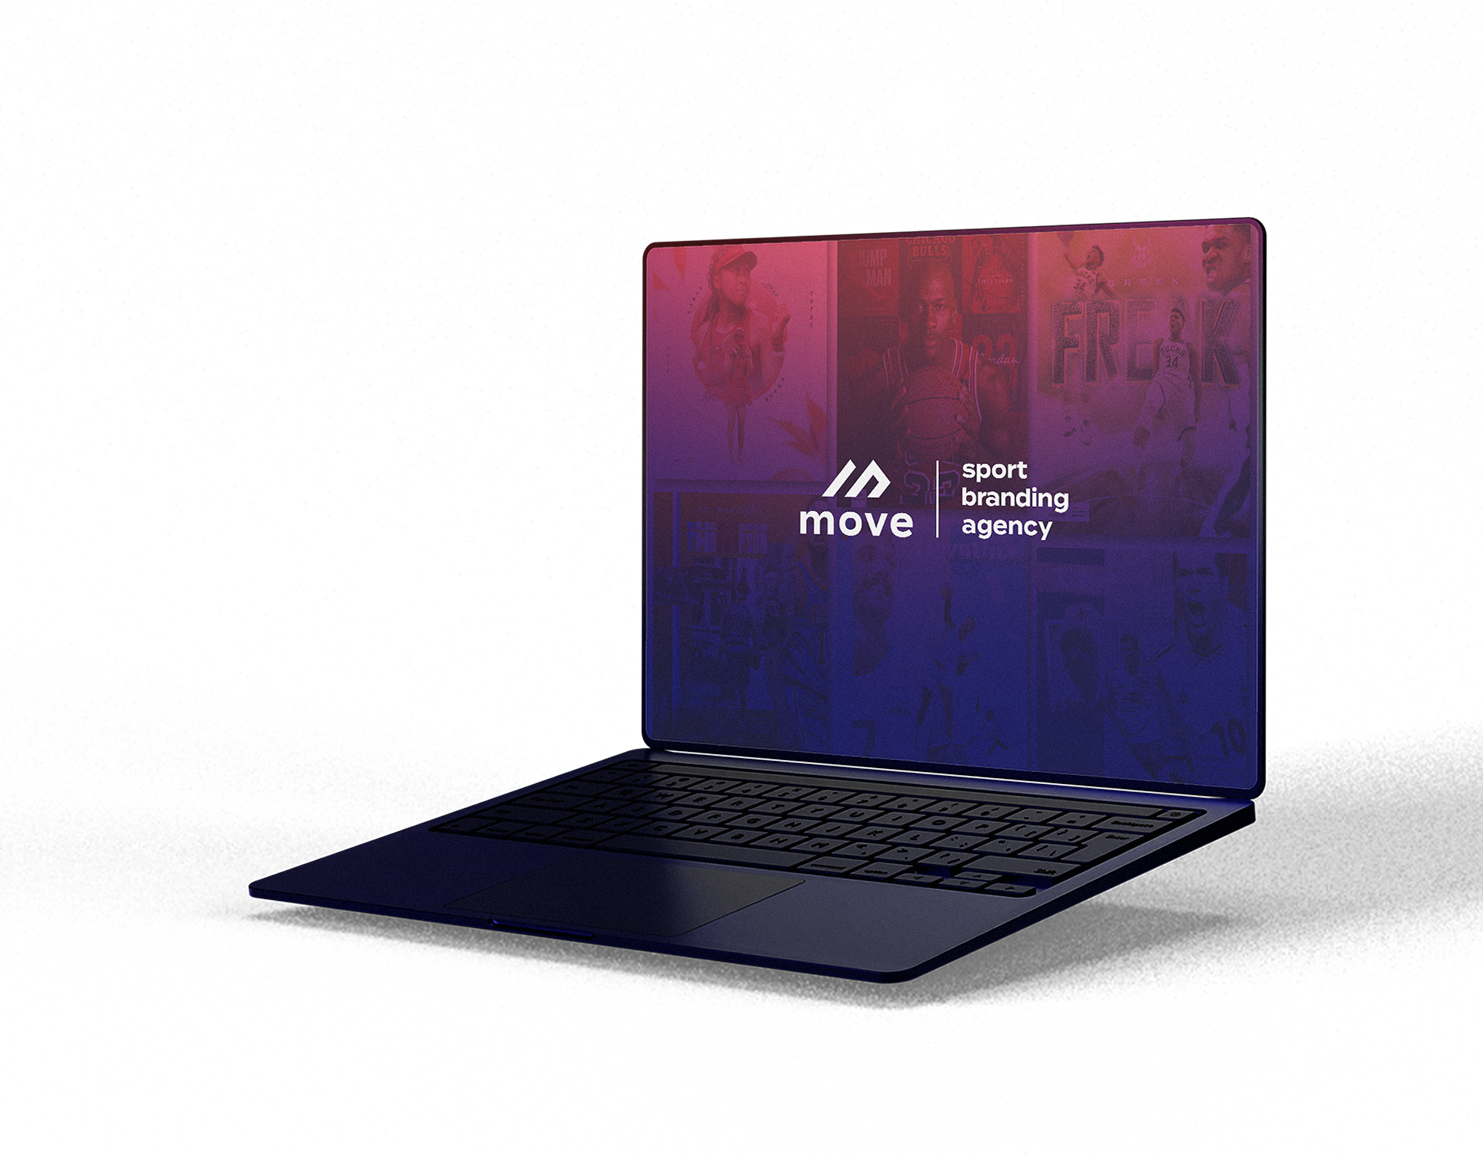
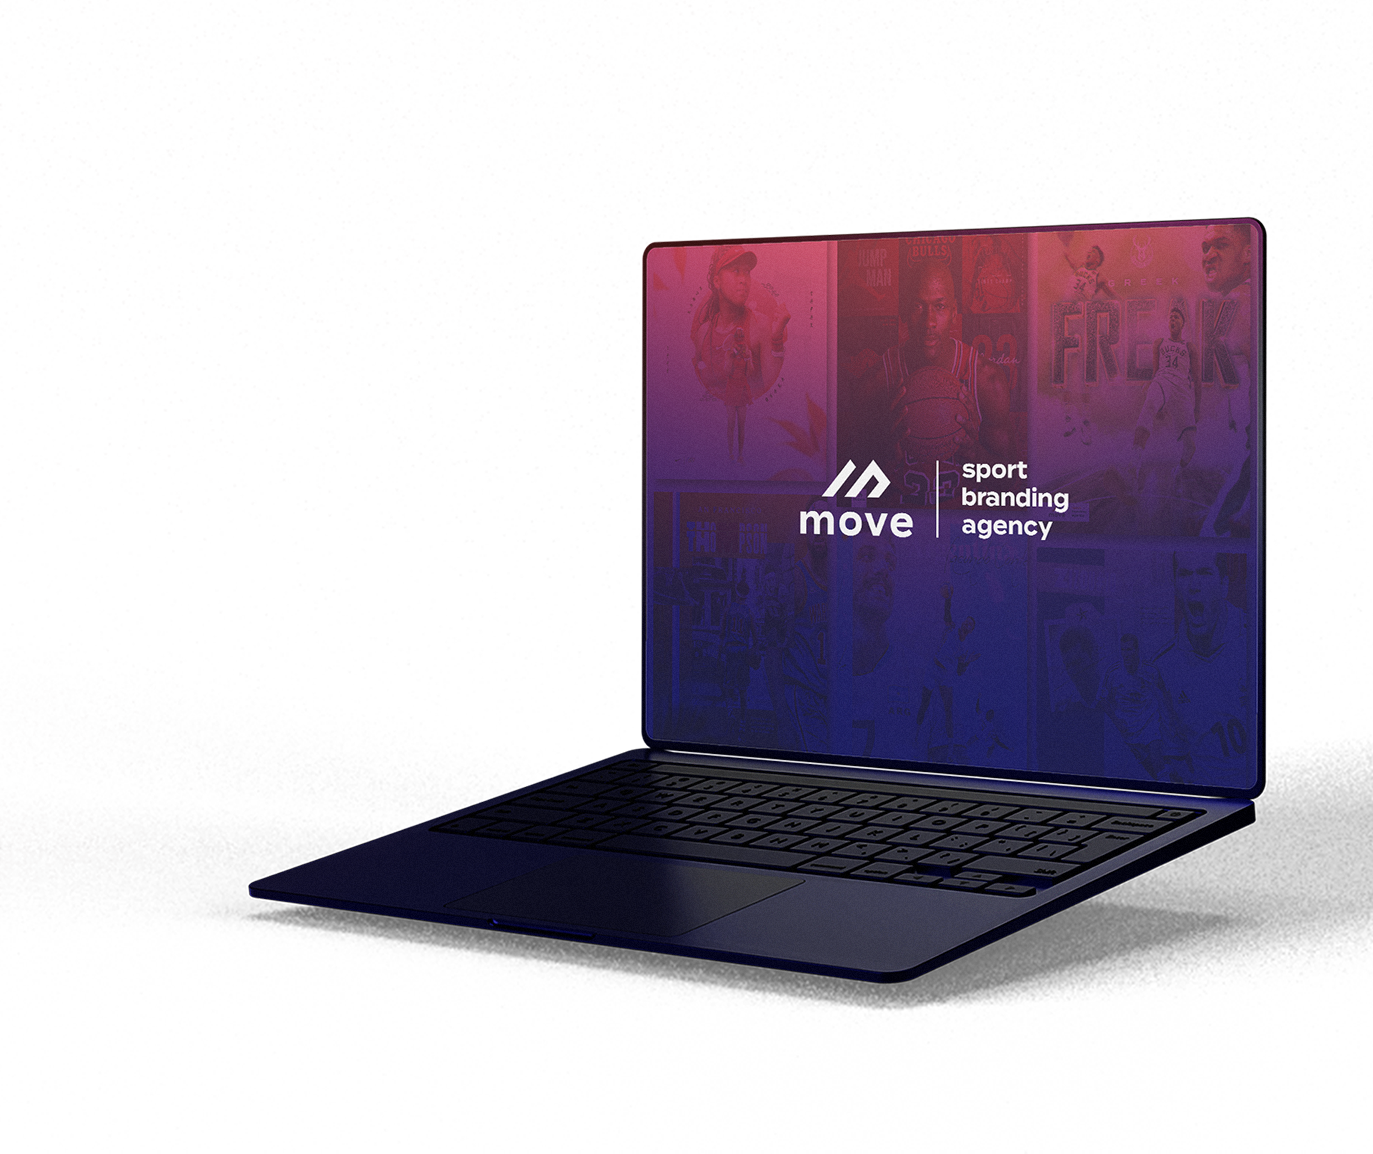
feat: test grain, p tag font weight,

Changed region(s): [[0.1529, 0.1872, 1.0, 0.8735]]

diff --git a/index.html b/index.html
@@ -106,7 +106,8 @@
     </div>
   </nav>
 
-  <section class="w-100 flex bg-main-blue min-h-screen">
+  <section class="w-100 flex bg-main-blue min-h-screen relative">
+    <div class="absolute left-0 top-0 bg-[url('/utils/grain.svg')] w-full h-full opacity-30"></div>
     <div class="bg-gradient-to-b from-main-red to-transparent h-3/5 flex w-full absolute -top-20">
     </div>
 
@@ -126,20 +127,22 @@
       </div>
 
 
-      <div class="absolute right-0 z-[3]">
+      <div class="absolute right-0 bottom-12 md:bottom-1/2 md:translate-y-1/2 z-[3]">
         <img src="./images/hero-image.png" />
       </div>
     </div>
+
   </section>
 
   <section class="w-100 bg-white text-center my-32 px-8">
+
     <div class="container mx-auto">
       <h2
         class="xl:text-5xl lg:text-4xl md:text-3xl text-2xl font-bold xl:mb-16 lg:mb-8 mb-4 text-main-blue before:block before:w-4 before:h-20 before:rotate-45 before:bg-main-red before:absolute before:-left-12 before:bottom-2 relative inline-block">
         KIM JESTEŚMY?
       </h2>
 
-      <p class="xl:text-3xl lg:text-2xl md:text-xl text-mdfont-medium mb-16">
+      <p class="xl:text-3xl lg:text-2xl md:text-xl text-md font-medium mb-16">
         Move to sportowa agencja brandingowa, która specjalizuje się
         w budowie wizualnego wizerunku klubów sportowych oraz sportowców.
         Tworzymy markę klubu, który jest z łatwością rozpoznawalny w sieci i stanowi
@@ -158,6 +161,7 @@
   <section class="w-100 bg-main-blue text-center relative">
     <div class="bg-gradient-to-b from-main-red to-transparent h-96 flex w-full absolute top-0">
     </div>
+    <div class="absolute left-0 top-0 bg-[url('/utils/grain.svg')] w-full h-full opacity-30"></div>
     <div class="container mx-auto text-white relative px-8">
       <h2
         class="xl:text-5xl lg:text-4xl md:text-3xl text-2xl font-bold xl:mb-16 lg:mb-8 mb-4 text-white before:block before:w-4 before:h-20 before:rotate-45 before:bg-main-red before:absolute before:-left-12 before:bottom-2 relative inline-block mt-24">
@@ -168,7 +172,7 @@
         Plakaty sportowe
       </h3>
 
-      <p class="xl:text-2xl lg:text-xl md:text-lg text-md mb-6">
+      <p class="xl:text-2xl lg:text-xl md:text-lg text-md mb-6 font-medium">
         Ukazanie sportowych emocji to nasza specjalność.
         Stworzymy dla Ciebie projekty uwieczniające sukcesy klubu, historyczne
         transfery, osiągnięcia indywidualne oraz podziękowania.
@@ -180,7 +184,7 @@
         Identyfikacja wizualna
       </h3>
 
-      <p class="xl:text-2xl lg:text-xl md:text-lg text-md mb-6">
+      <p class="xl:text-2xl lg:text-xl md:text-lg text-md mb-6 font-medium">
         Dla zbudowania siły przkazu zadbamy o kompleksowy wizerunek klubu.
         Zaprojektujemy herb oraz identyfikację wizualną, która będzie wizytówką zespołu
         na boisku i w mediach społecznościowych ale również zadbamy o jakość gadżetów
@@ -193,7 +197,7 @@
         Media społecznościowe
       </h3>
 
-      <p class="xl:text-2xl lg:text-xl md:text-lg text-md mb-6">
+      <p class="xl:text-2xl lg:text-xl md:text-lg text-md mb-6 font-medium">
         Wykorzystując najsilniejszy środek promocji - media społecznościowe, stworzymy
         spójny projekt oprawy graficznej klubu. Przekażemy kibicom najważniejsze informacje z życia drużyny - plakaty
         meczowe, wyniki, transfery, osiągnięcia.
@@ -205,7 +209,7 @@
         Oferty sponsorskie
       </h3>
 
-      <p class="xl:text-2xl lg:text-xl md:text-lg text-md mb-6">
+      <p class="xl:text-2xl lg:text-xl md:text-lg text-md mb-6 font-medium">
         Oprawimy graficznie ofertę sponsorską dla Twojego klubu.
         Damy Ci podkład do jasnej rozmowy z potencjalnym sponsorem,
         który przedstawia warunki współpracy i płynące z niej korzyści.
@@ -216,10 +220,10 @@
     </div>
   </section>
 
-  <section class="bg-main-blue relative w-100">
+  <section class="bg-main-blue relative w-100 px-8">
     <div class="container mx-auto py-32 text-center ">
-      <p class="text-white xl:text-3xl lg:text-2xl md:text-xl text-lg">
-        Masz pytania? Skontaktuj się z nami<br />
+      <p class="text-white xl:text-3xl lg:text-2xl md:text-xl text-lg font-medium max-w-3xl mx-auto">
+        Masz pytania? Skontaktuj się z nami
         za pomocą formularza kontaktowego.
       </p>
 
@@ -235,7 +239,7 @@
   <footer class="bg-main-red text-white py-24 px-6">
     <div class="container mx-auto grid lg:grid-cols-4 md:grid-cols-1 gap-4 text-left">
       <div class="mb-4">
-        <img src="./images/Move_Logo.png" alt="logo">
+        <img src="./images/Move_Logo.png" alt="logo" class="pr-12">
       </div>
 
       <div class="mb-4">
@@ -257,10 +261,10 @@
       <div class="mb-4">
         <h3 class="text-xl font-bold mb-3 mt-2">ZNAJDŹ NAS:</h3>
         <div class="flex items-center">
-          <img src="./images/social icons/fb-logo.png" alt="" class="mr-4 h-[45px]">
-          <img src="./images/social icons/instagram-logo.png" alt="" class="mr-4 h-[46px]">
-          <img src="./images/social icons/behance-logo.png" alt="" class="mr-4 h-[35px]">
-          <img src="./images/social icons/pinterest-logo.png" alt="" class="mr-4 h-[45px]">
+          <img src="./images/social icons/fb-logo.png" alt="" class="mr-4 h-[30px]">
+          <img src="./images/social icons/instagram-logo.png" alt="" class="mr-4 h-[31px]">
+          <img src="./images/social icons/behance-logo.png" alt="" class="mr-4 h-[27px]">
+          <img src="./images/social icons/pinterest-logo.png" alt="" class="mr-4 h-[30px]">
         </div>
       </div>
     </div>
